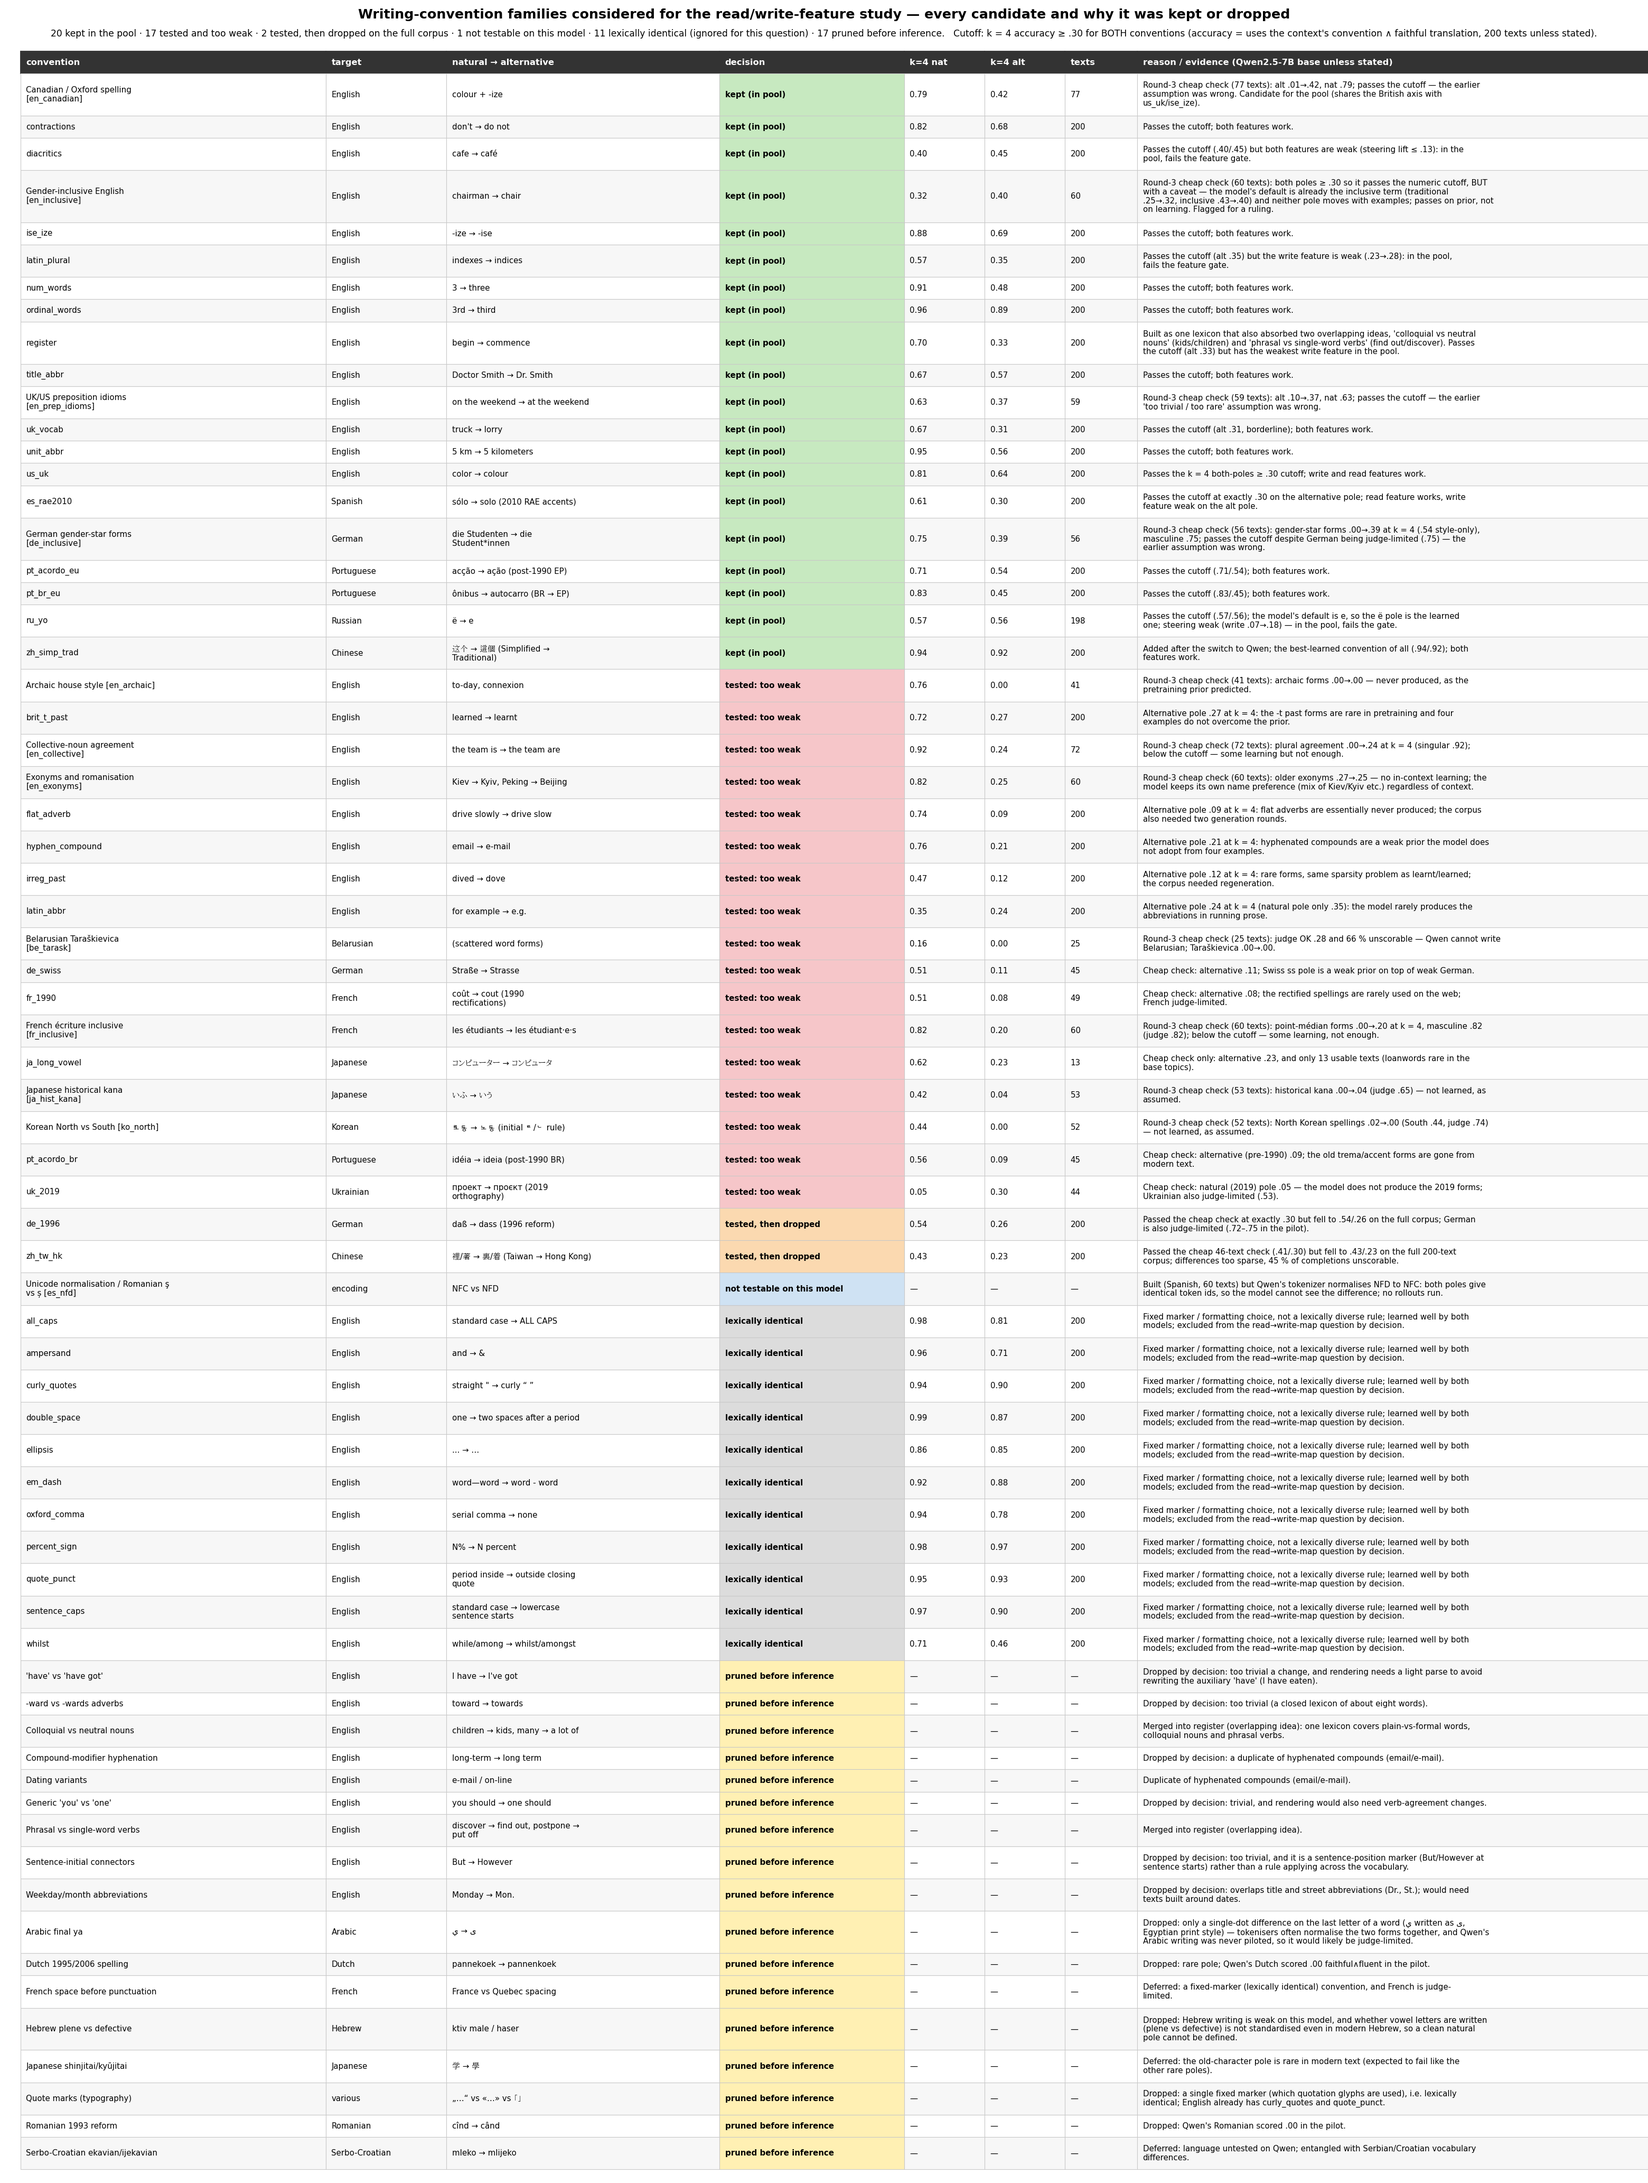
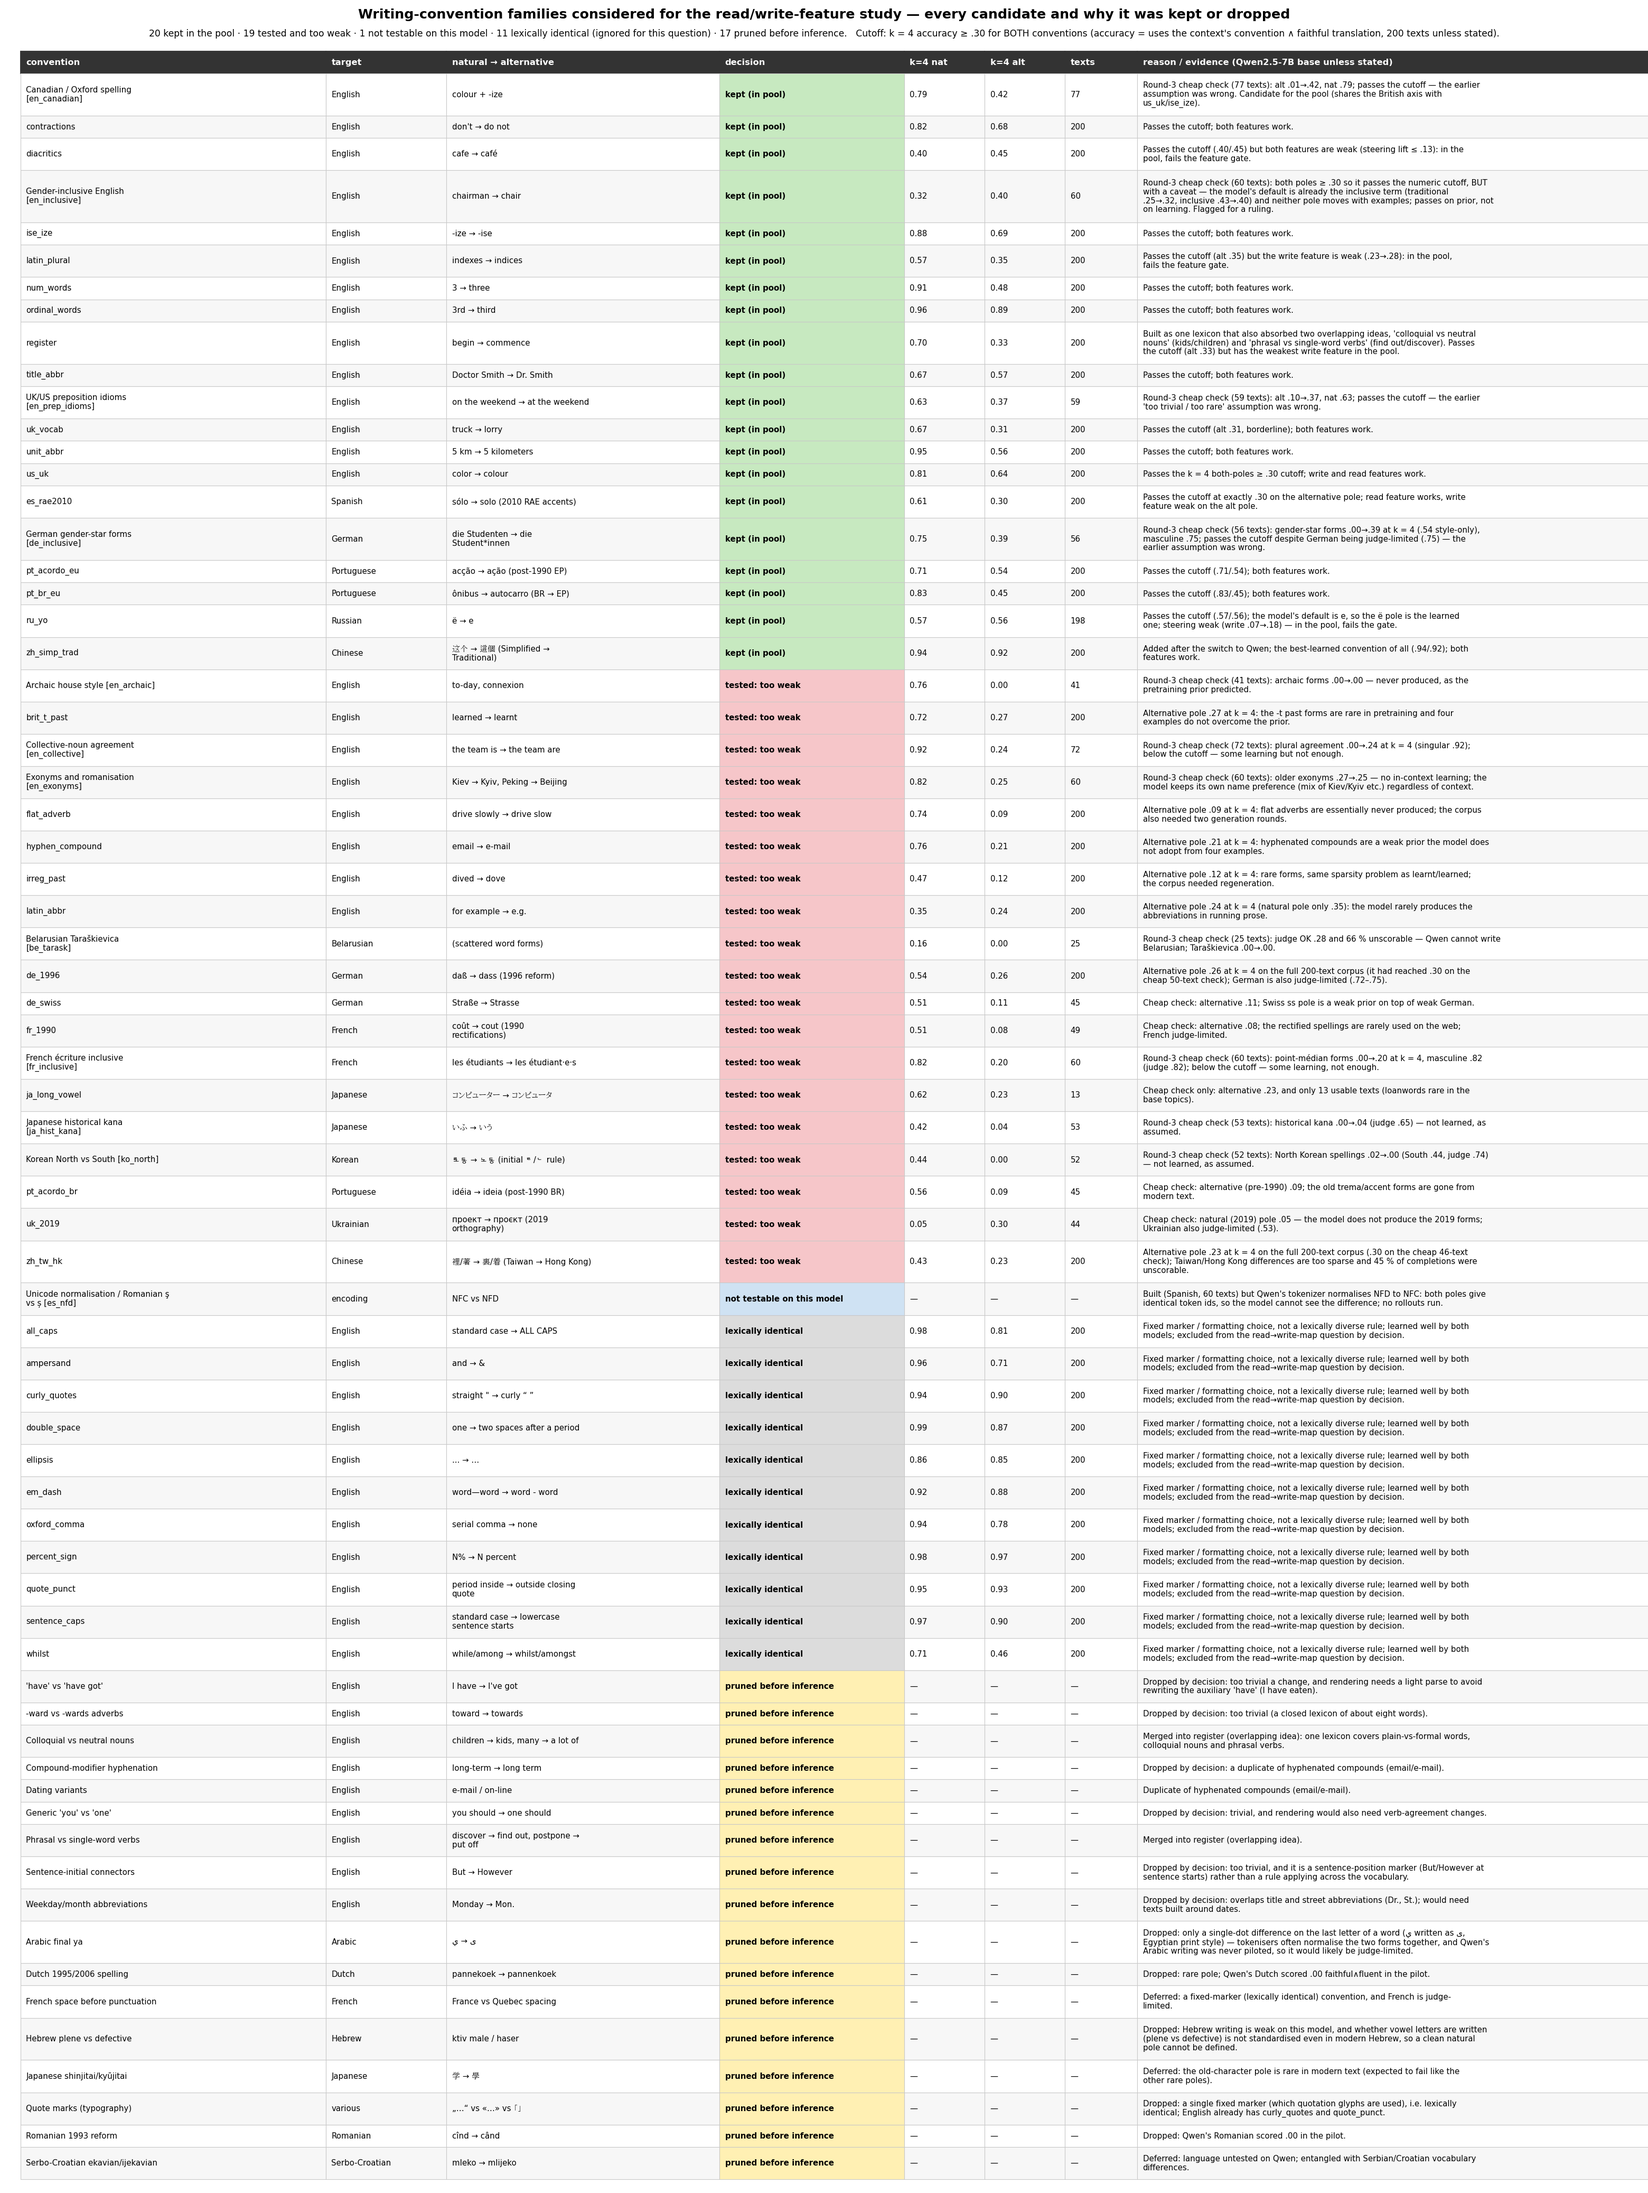
task_inventory: merge 'tested, then dropped' into 'tested: too weak'

diff --git a/src/sandbox/style_translation/task_inventory.py b/src/sandbox/style_translation/task_inventory.py
@@ -42,7 +42,7 @@ for name, fr in cols:
     xs.append((x, fr * (W - 0.6))); x += fr * (W - 0.6)
 counts = {s: sum(1 for r in rows if r["status"] == s) for s in order}
 ax.text(W / 2, H - 0.12, "Writing-convention families considered for the read/write-feature study — every candidate and why it was kept or dropped", ha="center", va="top", fontsize=14, fontweight="bold")
-ax.text(W / 2, H - 0.42, f"{counts[KEPT]} kept in the pool · {counts[WEAK]} tested and too weak · {counts[DROP]} tested, then dropped on the full corpus · {counts[UNT]} not testable on this model · {counts[FIX]} lexically identical (ignored for this question) · {counts[PRUNE]} pruned before inference.   "
+ax.text(W / 2, H - 0.42, f"{counts[KEPT]} kept in the pool · {counts[WEAK]} tested and too weak · {counts[UNT]} not testable on this model · {counts[FIX]} lexically identical (ignored for this question) · {counts[PRUNE]} pruned before inference.   "
         "Cutoff: k = 4 accuracy ≥ .30 for BOTH conventions (accuracy = uses the context's convention ∧ faithful translation, 200 texts unless stated).", ha="center", va="top", fontsize=9.5)
 y = H - title_h
 for (xx, w), (name, _) in zip(xs, cols):
